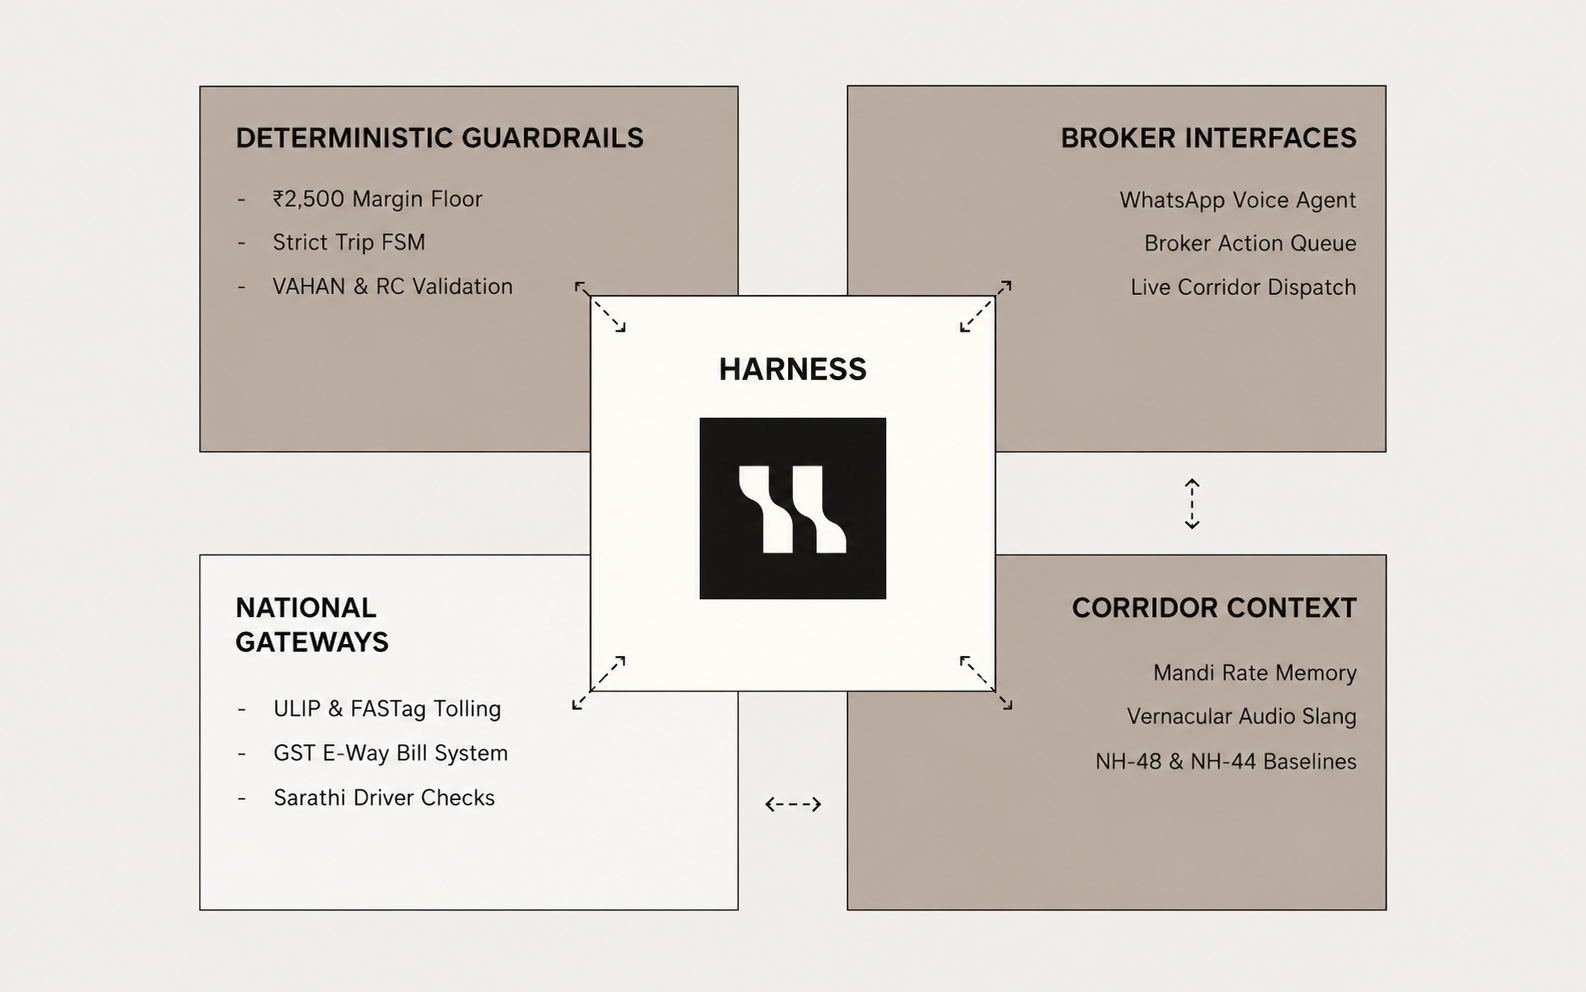
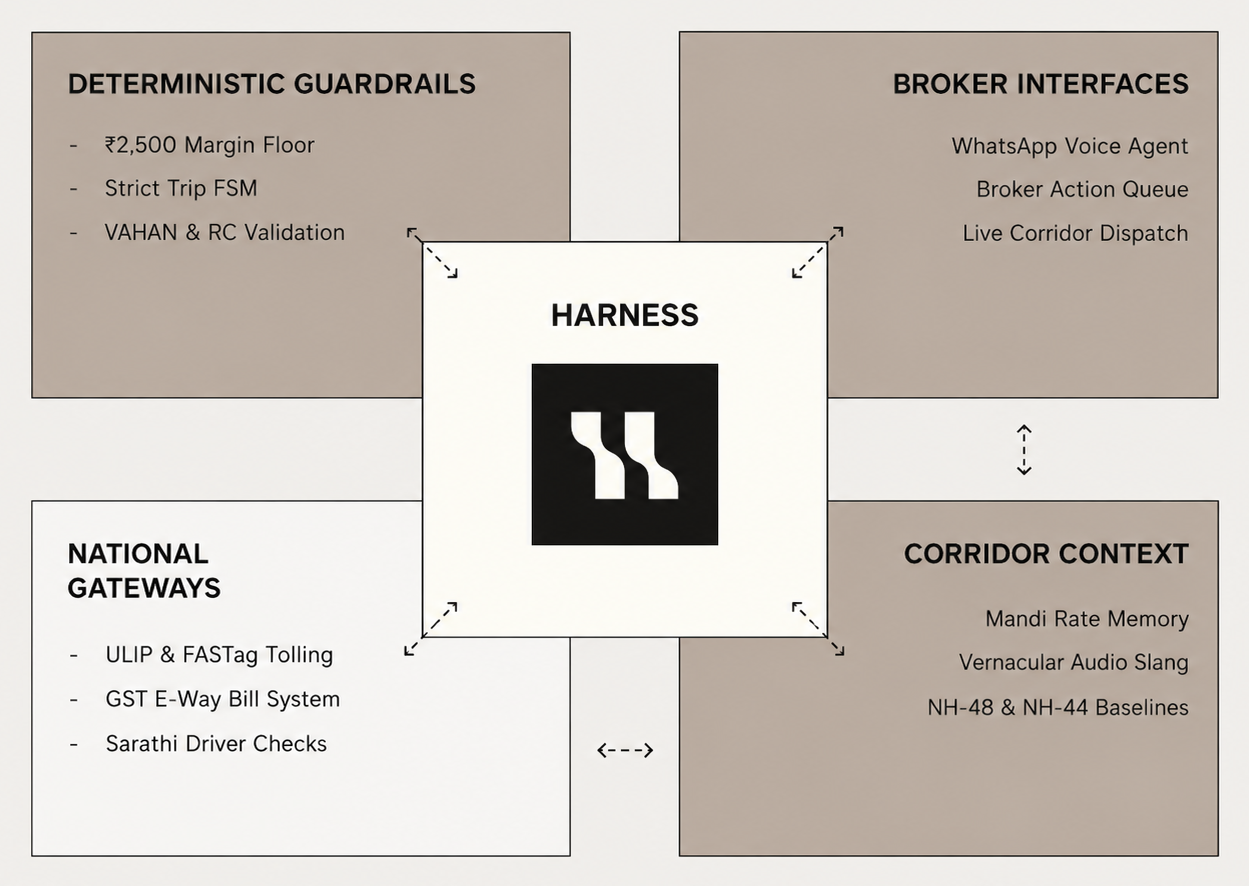
feat(platform): crop dead margins and expand diagram scale to 740px-820px

Changed region(s): [[0.0, 0.0305, 0.9992, 0.4571], [0.0312, 0.5485, 0.9992, 0.9752], [0.4059, 0.3352, 0.5933, 0.64]]

diff --git a/fright-web/src/components/PlatformDiagram.tsx b/fright-web/src/components/PlatformDiagram.tsx
@@ -14,7 +14,7 @@ export const PlatformDiagram: React.FC = () => {
           id="platform-diagram"
           className="scroll-mt-24 border-t border-[#dad5cc] bg-hr-signal hrlight:border-hr-stone"
         >
-          <div className="mx-auto grid max-w-[1440px] grid-cols-1 items-center gap-14 px-5 py-20 md:px-12 md:py-[150px] lg:grid-cols-[0.85fr_1fr] lg:gap-20">
+          <div className="mx-auto grid max-w-[1440px] grid-cols-1 items-center gap-12 px-5 py-16 md:px-12 md:py-[130px] lg:grid-cols-[0.8fr_1.2fr] lg:gap-14 xl:gap-20">
             <div>
               <h2 className="font-body text-[29px] leading-[1.04] tracking-[-0.02em] text-hr-canvas md:text-[46px]">
                 Brokers need <span className="text-hr-ink-4">an operating harness.</span>
@@ -56,7 +56,7 @@ export const PlatformDiagram: React.FC = () => {
               <img
                 src="/images/harness_systems.png"
                 alt="VahanaAI Freight Broker Harness Architecture"
-                className="h-auto w-full max-w-[420px] sm:max-w-[480px] lg:max-w-[540px] xl:max-w-[600px] lg:ml-auto object-contain rounded-xl"
+                className="h-auto w-full max-w-[600px] sm:max-w-[660px] lg:max-w-[740px] xl:max-w-[820px] lg:ml-auto object-contain rounded-xl shadow-lg"
               />
             </div>
           </div>
